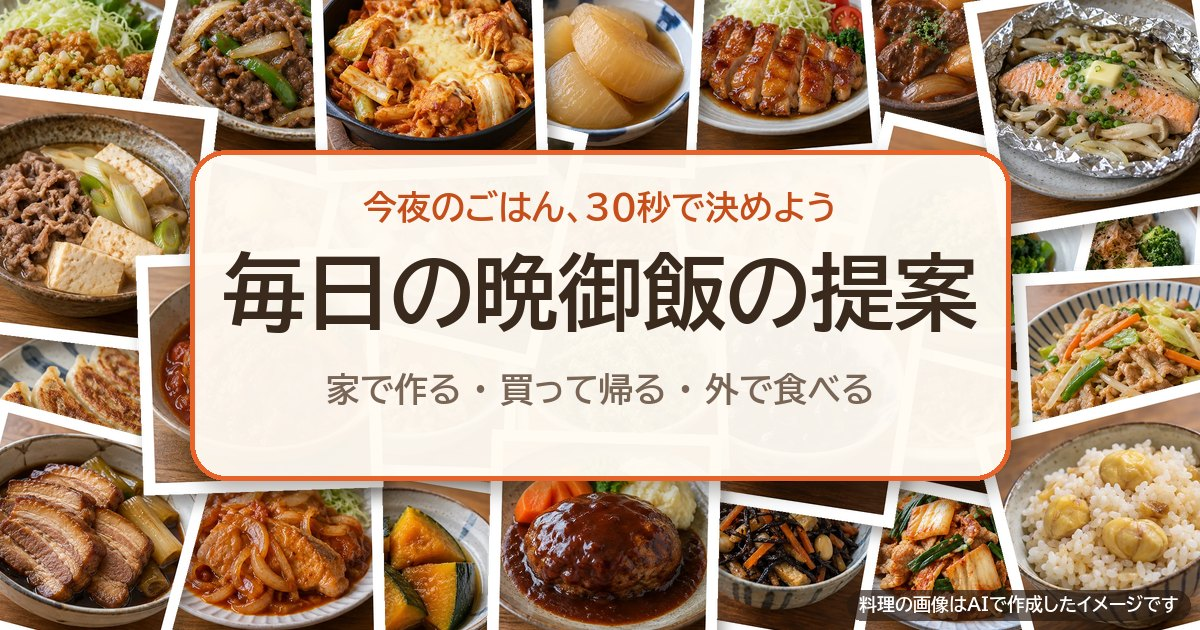
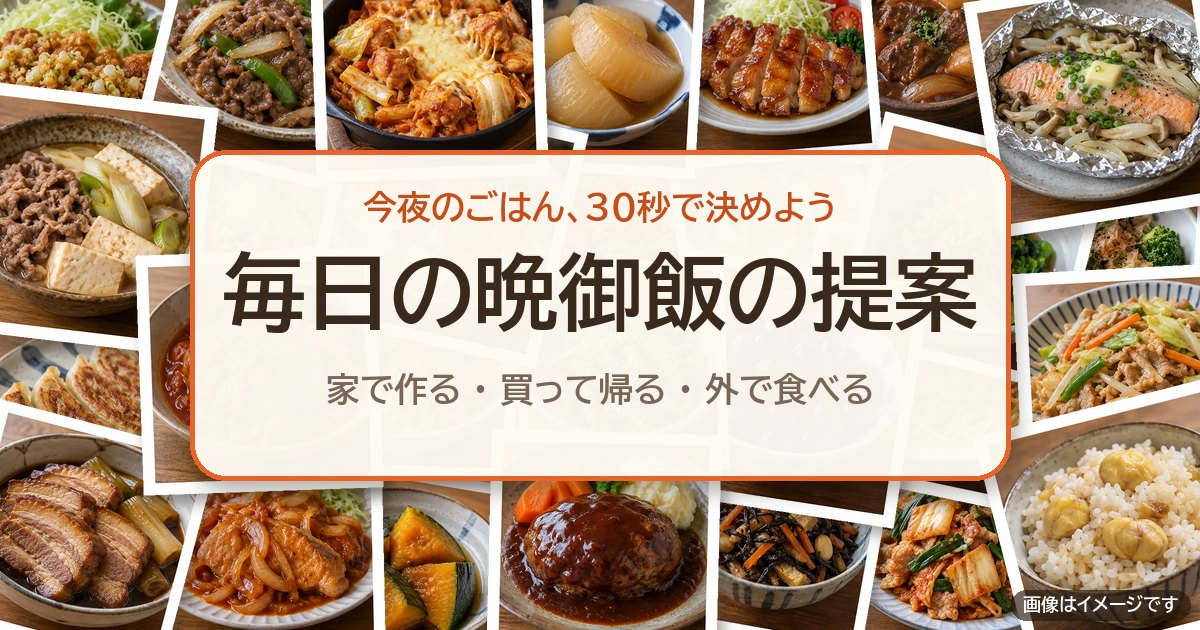
画像の注記を「画像はイメージです」に変更（料理カード・トップ画面・サムネ）

Changed region(s): [[0.7092, 0.9349, 0.8942, 0.9952]]

diff --git a/app.js b/app.js
@@ -243,7 +243,7 @@
     if (!p) return null;
     return h('figure', { class: 'hero' },
       h('img', { src: p.src, alt: d.name + (p.ai ? 'のイメージ画像' : 'の写真'), loading: 'lazy' }),
-      h('figcaption', {}, p.ai ? '画像はAIで作成したイメージです'
+      h('figcaption', {}, p.ai ? '画像はイメージです'
         : h('a', { href: p.page, target: '_blank', rel: 'noopener', text: `写真：${p.by}／${p.lic}／Wikimedia Commons` })));
   }
   // 料理が決まったあとの出口。作るときは作り方の検索、買う・食べに行くときは「地図で探す」（サイトの中で地図が開く）

diff --git a/style.css b/style.css
@@ -636,7 +636,7 @@ body.art-top .top-view { background: #c9a273 url(art/top_wide.webp) center / cov
   @keyframes top-in { from { opacity: 0; transform: translateY(14px) scale(.98); } }
 }
 .top-title:focus { outline: none; }
-/* 高さの低い画面（スマホの横向きなど）では余白を詰めて、「画像はAIで作成」の注記まで画面に収める */
+/* 高さの低い画面（スマホの横向きなど）では余白を詰めて、「画像はイメージです」の注記まで画面に収める */
 @media (max-height: 380px) {
   .top-view { padding: 10px 16px; gap: 8px; }
   .top-card { padding: 12px 18px 8px; }

diff --git a/index.html b/index.html
@@ -30,7 +30,7 @@
     <p class="top-ways">家で作る ・ 買って帰る ・ 外で食べる</p>
     <button type="button" id="top-go" class="btn btn-primary btn-big top-go">今夜のごはんを決める</button>
   </div>
-  <p class="top-note">料理の画像はAIで作成したイメージです</p>
+  <p class="top-note">画像はイメージです</p>
 </section>
 <script>
   // 行き先（#…）つきのURLで開いたときは、最初にトップ画面を見せない（中の画面の用意ができるまで、見出しだけを出しておく）

diff --git a/tools/make_top.py b/tools/make_top.py
@@ -124,8 +124,8 @@ def make_ogp(dishes, rng):
     text_center(d, w / 2, 190, "今夜のごはん、30秒で決めよう", f(34), ACCENT)
     text_center(d, w / 2, 250, "毎日の晩御飯の提案", f(84), INK)
     text_center(d, w / 2, 372, "家で作る ・ 買って帰る ・ 外で食べる", f(34), SUB)
-    # 料理の画像はAIで作ったものなので、右下に小さく書く
-    note, nf = "料理の画像はAIで作成したイメージです", f(18)
+    # 料理の画像は実物の写真ではないので、右下に小さく書く
+    note, nf = "画像はイメージです", f(18)
     nw = d.textlength(note, font=nf)
     tag = Image.new("RGBA", (w, h), (0, 0, 0, 0))
     ImageDraw.Draw(tag).rounded_rectangle((w - nw - 34, h - 40, w - 10, h - 10), 15, fill=(40, 25, 15, 170))
